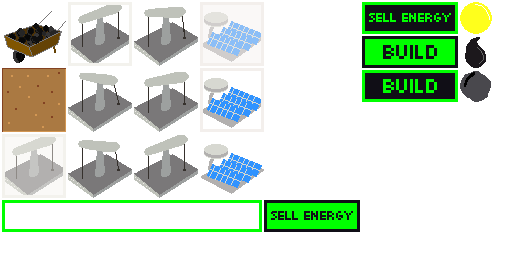
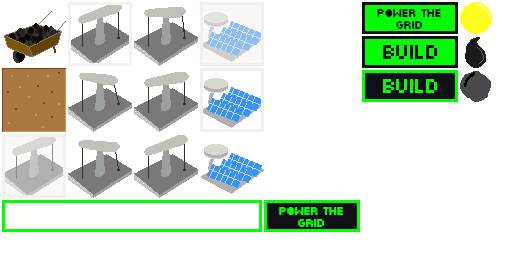
Updated sell button text

Changed region(s): [[0.6875, 0.0, 0.9062, 0.1562], [0.5, 0.7812, 0.7188, 0.9062]]

diff --git a/src/main.rs b/src/main.rs
@@ -136,7 +136,7 @@ fn setup_world(world: &mut World, window: &glutin::Window, font: &Arc<Font<'stat
     scene.nodes.push(Node::new(Some(entity), None));
 
     let entity = world.create_entity()
-        .with(Button::new("sell".to_string(), ["sell.png".to_string(), "sell_hover.png".to_string()]))
+        .with(Button::new("power-btn".to_string(), ["power-btn.png".to_string(), "power-btn-hover.png".to_string()]))
         .with(Transform::new(820, 32, 96, 32, 0.0, 1.0, 1.0))
         .with(Sprite{ frame_name: "sell.png".to_string(), visible: true })
         .build();

diff --git a/src/systems/sell_energy.rs b/src/systems/sell_energy.rs
@@ -23,7 +23,7 @@ impl<'a> System<'a> for SellEnergy {
 
         let mut sell_button_clicked = false;
         for button in (&mut button_storage).join() {
-            if button.name == "sell".to_string() && button.clicked(&input) {
+            if button.name == "power-btn".to_string() && button.clicked(&input) {
                 click_sound.play = true;
                 sell_button_clicked = true;
             }
